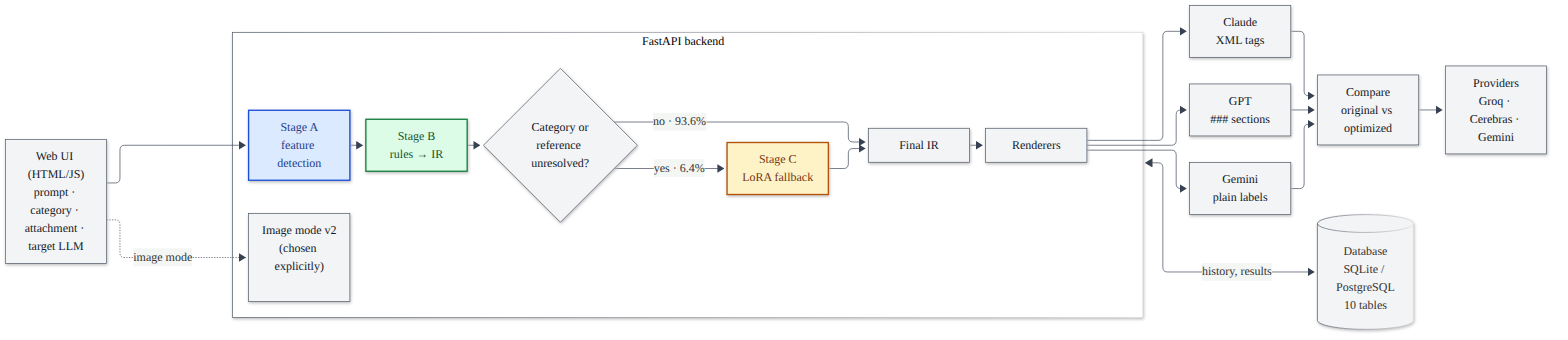
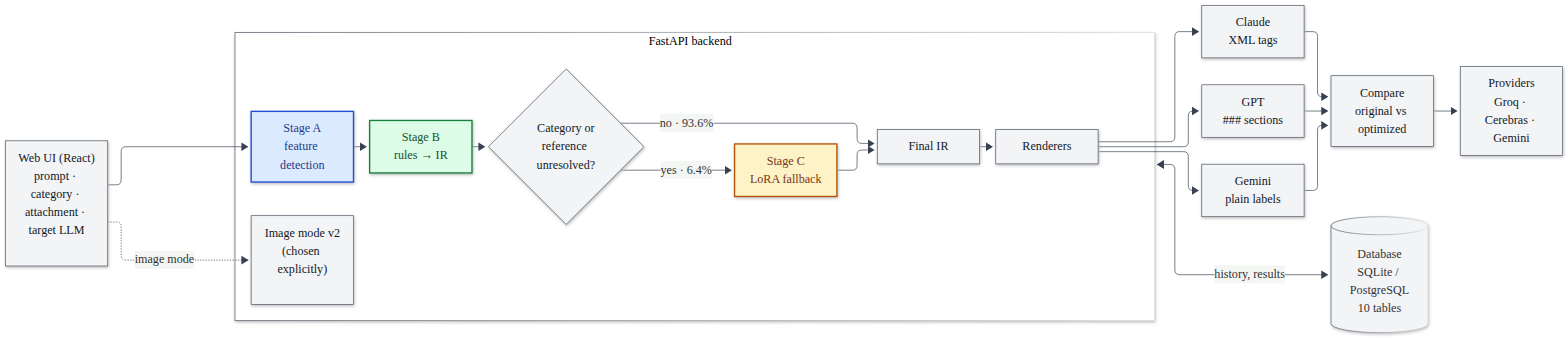
Review fixes: retention enforced, 422 for blank prompts, PII-scrubbed Compare, test isolation
- Retention: the app never purged expired prompts (only `init_db --purge`), so prompts past their 30 days
  stayed listed and viewable. app/retention.py deletes them before every endpoint that stores, reads or lists
  prompts (/api/optimize, /api/compare, /api/history[/{id}], /api/ui/history, /api/ui/compare-history).
- A whitespace-only prompt raised DataValidationError -> HTTP 500; now answered with 422.
- Compare sent the raw original prompt and pasted text (emails/phone numbers) to the provider while the
  optimized prompt was built from the scrubbed text: both variants now get the scrubbed text (fair, private).
- Gemini: a per-minute 429 ("Quota exceeded ... PerMinute") was treated as the daily quota; it is now retried,
  only a per-day (or unidentified) quota stops.
- Compare's cache path default was bound at import time, so tests wrote fixture answers into the real
  data/compare/cache.jsonl; it is now read at call time (the suite writes nothing under data/ any more).
- SQLite default is backend/promptopt.db as an absolute path (no stray database when run from elsewhere).
- Judge budget uses DAILY_LIMITS instead of a literal; unvalidated-test note no longer promises Compare runs them.
- Docs: UI is React (diagram 01 regenerated from its SVG), stale HTML/JS and test-count mentions fixed.

Freeze check: byte-identical to frozen-for-test (35f7d4dc..., 482 test prompts). Tests: 777 passed.

diff --git a/backend/app/api.py b/backend/app/api.py
@@ -24,15 +24,18 @@ Endpoints
 
 Everything runs offline. Stage C is used when its adapter is installed (config.STAGE_C_ADAPTER) and
 STAGE_C_ENABLED is not "0"; otherwise the UI says Stage C is unavailable and Stage B's result is shown.
+
+Retention: endpoints that store or read prompts first delete the expired ones (app.retention). Input the database
+layer refuses (e.g. a prompt that is only whitespace) is answered with 422, not a server error.
 """
 import os
 from functools import lru_cache
 from pathlib import Path
 from typing import Literal
 
-from fastapi import Depends, FastAPI, HTTPException
+from fastapi import Depends, FastAPI, HTTPException, Request
 from fastapi.middleware.gzip import GZipMiddleware
-from fastapi.responses import FileResponse
+from fastapi.responses import FileResponse, JSONResponse
 from fastapi.staticfiles import StaticFiles
 from pydantic import BaseModel, Field
 from sqlalchemy import select
@@ -41,6 +44,7 @@ from sqlalchemy.orm import Session
 from app.config import RETENTION_DAYS
 from app.db import repository as repo
 from app.db.base import get_db
+from app.db.pii import scrub_pii
 from app.coding import app_tests
 from app.compare import providers
 from app.compare import service as compare_service
@@ -51,6 +55,7 @@ from app.image.v2 import RULE_DOCS_V2, optimize_image_v2, parse_accepted, render
 from app.db.models import Prompt
 from app.pipeline import process_prompt
 from app.rendering import TARGETS
+from app.retention import enforce_retention
 from app.stage_b.ir import Attachment
 from app.stage_b.rules import RULES
 from app.ui_api import router as ui_router
@@ -69,6 +74,11 @@ app = FastAPI(title="PromptOpt", version="0.2.0")
 app.add_middleware(GZipMiddleware, minimum_size=1000)
 app.mount("/static", StaticFiles(directory=STATIC), name="static")
 app.include_router(ui_router)
+
+
+@app.exception_handler(repo.DataValidationError)
+def data_validation_error(request: Request, exc: repo.DataValidationError):
+    return JSONResponse(status_code=422, content={"detail": str(exc)})
 
 
 @lru_cache(maxsize=1)
@@ -190,7 +200,7 @@ def optimize_image_prompt(req: OptimizeRequest, db: Session) -> dict:
             "ir": ir.model_dump(mode="json"), "renderings": rendered}
 
 
-@app.post("/api/optimize")
+@app.post("/api/optimize", dependencies=[Depends(enforce_retention)])
 def optimize_prompt(req: OptimizeRequest, db: Session = Depends(get_db)):
     if req.category == "image_generation":
         return optimize_image_prompt(req, db)
@@ -244,14 +254,14 @@ def coding_tests(req: CodingTestsRequest):
     return app_tests.generate(req.optimized_prompt)
 
 
-@app.get("/api/history")
+@app.get("/api/history", dependencies=[Depends(enforce_retention)])
 def history(limit: int = 20, db: Session = Depends(get_db)):
     rows = db.scalars(select(Prompt).order_by(Prompt.id.desc()).limit(min(max(limit, 1), 100))).all()
     return [{"prompt_id": p.id, "text": p.original_text[:200], "created_at": p.created_at,
              "expires_at": p.expires_at} for p in rows]
 
 
-@app.get("/api/history/{prompt_id}")
+@app.get("/api/history/{prompt_id}", dependencies=[Depends(enforce_retention)])
 def history_item(prompt_id: int, db: Session = Depends(get_db)):
     item = repo.get_prompt_history(db, prompt_id)
     if item is None:
@@ -272,7 +282,7 @@ def compare_models():
                         "available": m.available, "reason": m.reason} for m in providers.MODELS]}
 
 
-@app.post("/api/compare")
+@app.post("/api/compare", dependencies=[Depends(enforce_retention)])
 def compare(req: CompareRequest, db: Session = Depends(get_db)):
     if req.category == "image_generation":
         raise HTTPException(422, "Compare runs text prompts; image models are not wired up for Compare.")
@@ -282,15 +292,18 @@ def compare(req: CompareRequest, db: Session = Depends(get_db)):
     if not info.available:
         raise HTTPException(503, info.reason)
     optimized = optimize_prompt(OptimizeRequest(**req.model_dump(exclude={"model", "judge"})), db)
+    history = repo.get_prompt_history(db, optimized["prompt_id"])
+    # Both variants go to the provider with PII scrubbed, as stored: the optimized prompt is built from the scrubbed
+    # text, so sending the raw original would compare different inputs and send emails/phone numbers outside.
+    context = scrub_pii(req.context)[0].strip() if req.context and req.context.strip() else None
     try:
-        result = compare_service.compare(req.prompt, optimized["renderings"][req.target], req.model, req.target,
-                                         context=req.context, category=optimized["category"]["used"],
+        result = compare_service.compare(history["original_text"], optimized["renderings"][req.target], req.model,
+                                         req.target, context=context, category=optimized["category"]["used"],
                                          judge_answers=req.judge)
     except DailyLimitReached as e:
         raise HTTPException(429, str(e))
     except ModelUnavailable as e:
         raise HTTPException(503, str(e))
-    history = repo.get_prompt_history(db, optimized["prompt_id"])
     result_id = history["results"][-1]["result_id"]
     repo.save_token_usage(db, result_id, req.target, f"compare:{req.model}", result["original"]["input_tokens"],
                           result["optimized"]["input_tokens"], result["original"]["output_tokens"],

diff --git a/backend/tests/test_compare.py b/backend/tests/test_compare.py
@@ -186,3 +186,44 @@ def test_api_compare_end_to_end(client, monkeypatch):
     assert r["tests"]["optimized"]["outcome"] == "pass"
     usage = client.get(f"/api/history/{r['prompt_id']}").json()["results"][0]["token_usage"]
     assert any(u["target_llm"] == "gemini" and u["optimized_input"] == 104 for u in usage)
+
+
+def test_gemini_per_minute_limit_is_retried_per_day_limit_stops():
+    minute = {"error": {"message": "You exceeded your current quota. Quota exceeded for metric: generate_content_free_"
+                                   "tier_requests", "details": [{"quotaId": "GenerateRequestsPerMinutePerProjectPerModel"
+                                                                            "-FreeTier"}]}}
+    calls = []
+
+    def first_minute_then_ok(request):
+        calls.append(1)
+        if len(calls) == 1:
+            return httpx.Response(429, json=minute)
+        return httpx.Response(200, json={"candidates": [{"content": {"parts": [{"text": "ok"}]}}],
+                                         "usageMetadata": {"promptTokenCount": 3, "candidatesTokenCount": 1}})
+    http = httpx.Client(base_url=providers.GEMINI_URL, transport=httpx.MockTransport(first_minute_then_ok))
+    c = providers.GeminiChat(http=http, sleep=lambda s: None).complete("m", [{"role": "user", "content": "x"}], 10)
+    assert c.content == "ok" and len(calls) == 2                                      # waited out, not "daily"
+    day = {"error": {"message": "Quota exceeded", "details": [{"quotaId": "GenerateRequestsPerDayPerProjectPerModel"
+                                                                          "-FreeTier"}]}}
+    http = httpx.Client(base_url=providers.GEMINI_URL,
+                        transport=httpx.MockTransport(lambda request: httpx.Response(429, json=day)))
+    with pytest.raises(DailyLimitReached):
+        providers.GeminiChat(http=http, sleep=lambda s: None).complete("m", [{"role": "user", "content": "x"}], 10)
+
+
+def test_api_compare_sends_both_prompts_pii_scrubbed(client, monkeypatch):
+    seen = []
+
+    def fake(info, messages, **kw):
+        seen.append(messages[-1]["content"])
+        return completion({"content": "Sure."}, info.id)
+    monkeypatch.setattr(providers, "complete", fake)
+    r = client.post("/api/compare", json={"prompt": "email ravi@example.com the summary of this", "target": "gpt",
+                                          "context": "Call 555-123-4567 about the launch on Friday.",
+                                          "model": "groq/openai/gpt-oss-120b"})
+    assert r.status_code == 200
+    assert len(seen) == 2
+    for sent in seen:                                    # original and optimized: same scrubbed input
+        assert "ravi@example.com" not in sent and "555-123-4567" not in sent
+        assert "[PHONE]" in sent
+    assert "[EMAIL]" in r.json()["original"]["prompt"]

diff --git a/backend/app/compare/service.py b/backend/app/compare/service.py
@@ -75,8 +75,8 @@ def judge(original_request: str, answer: str, cache: Cache) -> dict | None:
         info = providers.BY_ID["groq/openai/gpt-oss-120b"]
         if not info.available:
             return None
-        from app.groq_budget import UsageLedger
-        if UsageLedger().used(JUDGE_MODEL)["tokens"] > providers.BUDGET_FRACTION * 200_000:
+        from app.groq_budget import DAILY_LIMITS, UsageLedger
+        if UsageLedger().used(JUDGE_MODEL)["tokens"] > providers.BUDGET_FRACTION * DAILY_LIMITS[JUDGE_MODEL]["tokens"]:
             return {"score": None, "reason": "judge skipped: Groq daily budget for the judge model reached"}
         msgs = [{"role": "system", "content": JUDGE_SYSTEM},
                 {"role": "user", "content": f"USER'S REQUEST:\n{original_request.strip()}\n\nRESPONSE:\n"
@@ -93,13 +93,13 @@ def judge(original_request: str, answer: str, cache: Cache) -> dict | None:
 
 
 def compare(original_prompt: str, optimized_prompt: str, model_id: str, target: str, context: str | None = None,
-            category: str | None = None, judge_answers: bool = False, cache_path: Path = CACHE) -> dict:
+            category: str | None = None, judge_answers: bool = False, cache_path: Path | None = None) -> dict:
     info = providers.BY_ID.get(model_id)
     if info is None:
         raise ValueError(f"unknown model {model_id!r}; choose one of {list(providers.BY_ID)}")
     if not info.available:
         raise providers.ModelUnavailable(info.reason)
-    cache = Cache(cache_path)
+    cache = Cache(cache_path or CACHE)                  # CACHE read at call time, so tests can point it elsewhere
     original_text = with_context(original_prompt, context)
     out = {v: run_variant(info, text, cache) for v, text in (("original", original_text),
                                                              ("optimized", optimized_prompt))}

diff --git a/backend/app/ui_api.py b/backend/app/ui_api.py
@@ -6,6 +6,7 @@
     GET    /api/ui/results           evaluation/FINAL_RESULTS.md parsed into sections and tables, plus the token headline
     GET    /api/ui/suite-grid        correctness suite: every case's verdicts and tokens per model (results.json)
     GET    /api/ui/history           past prompts with search and paging, with category/target/compare runs
+                                     (expired prompts are deleted first: app.retention)
     DELETE /api/ui/history/{id}      delete one prompt (cascade, like the retention purge)
     GET    /api/ui/compare-history   past Compare runs (token usage rows written by POST /api/compare)
 
@@ -24,6 +25,7 @@ from app.config import BACKEND_DIR, RETENTION_DAYS
 from app.db.base import get_db
 from app.db.models import OptimizationResult, Prompt, TokenUsage
 from app.rendering import TARGETS, count_tokens
+from app.retention import enforce_retention
 
 ROOT = BACKEND_DIR.parent
 EVAL = ROOT / "evaluation"
@@ -248,7 +250,7 @@ def _summary(p: Prompt) -> dict:
             "optimized": r.optimized_text if r else None, "compares": compares}
 
 
-@router.get("/history")
+@router.get("/history", dependencies=[Depends(enforce_retention)])
 def history(q: str = "", limit: int = 50, offset: int = 0, db: Session = Depends(get_db)):
     stmt = select(Prompt)
     if q.strip():
@@ -271,7 +273,7 @@ def delete_history(prompt_id: int, db: Session = Depends(get_db)):
     return {"deleted": prompt_id}
 
 
-@router.get("/compare-history")
+@router.get("/compare-history", dependencies=[Depends(enforce_retention)])
 def compare_history(limit: int = 30, db: Session = Depends(get_db)):
     rows = db.execute(select(TokenUsage, OptimizationResult.prompt_id, Prompt.original_text)
                       .join(OptimizationResult, TokenUsage.result_id == OptimizationResult.id)

diff --git a/backend/app/config.py b/backend/app/config.py
@@ -1,7 +1,7 @@
 """Settings, read from environment variables so nothing is hard-coded.
 
 DATABASE_URL examples
-    SQLite (default, development):  sqlite:///./promptopt.db
+    SQLite (default, development):  backend/promptopt.db, wherever the command is started from
     PostgreSQL (deployment):        postgresql+psycopg://promptopt:password@localhost:5432/promptopt
 
 Values are read from backend/.env if it exists (see .env.example). Variables already set in the
@@ -12,10 +12,14 @@ from pathlib import Path
 
 from dotenv import load_dotenv
 
-# backend/.env, located relative to this file so it works from any working directory.
-load_dotenv(Path(__file__).resolve().parent.parent / ".env", override=False)
+BACKEND_DIR = Path(__file__).resolve().parent.parent
 
-DATABASE_URL = os.getenv("DATABASE_URL", "sqlite:///./promptopt.db")
+# backend/.env, located relative to this file so it works from any working directory.
+load_dotenv(BACKEND_DIR / ".env", override=False)
+
+# Default: SQLite at backend/promptopt.db (an absolute path, so a command run from another directory does not create a
+# second, empty database next to it).
+DATABASE_URL = os.getenv("DATABASE_URL", f"sqlite:///{BACKEND_DIR / 'promptopt.db'}")
 
 # Retention policy: stored prompts (and everything derived from them) are deleted after this many days.
 RETENTION_DAYS = int(os.getenv("RETENTION_DAYS", "30"))
@@ -34,7 +38,6 @@ TASK_CATEGORIES = (
 )
 
 # ---- Stage A
-BACKEND_DIR = Path(__file__).resolve().parent.parent
 # Sentence-Transformers model for task-category detection (same model the dataset quality checks used)
 SENTENCE_MODEL = os.getenv("SENTENCE_MODEL", "sentence-transformers/all-MiniLM-L6-v2")
 # k-NN index built from the dataset's train split by `python -m app.stage_a.build_index` (git-ignored)

diff --git a/backend/tests/test_api.py b/backend/tests/test_api.py
@@ -199,3 +199,29 @@ def test_image_suggestions_are_added_only_when_accepted(client):
     assert "lighting" not in {s["attribute"] for s in r["suggestions"]}
     assert client.post("/api/optimize", json={**body, "accepted_suggestions": ["lighting:laser show"]}
                        ).status_code == 422
+
+
+def test_blank_prompt_is_rejected_with_422_not_500(client):
+    for body in ({"prompt": "   \n ", "target": "gpt"},
+                 {"prompt": "  ", "target": "dalle", "category": "image_generation"}):
+        r = client.post("/api/optimize", json=body)
+        assert r.status_code == 422 and "empty" in r.json()["detail"]
+
+
+def test_expired_prompts_are_deleted_before_history_is_shown(client):
+    from datetime import timedelta
+
+    from sqlalchemy import func, select
+
+    from app.db import repository as repo
+    from app.db.models import Prompt, utcnow
+    fresh = client.post("/api/optimize", json={"prompt": "summarize this", "target": "gpt"}).json()["prompt_id"]
+    session = next(api.app.dependency_overrides[get_db]())
+    old = repo.create_prompt(session, "an old prompt", now=utcnow() - timedelta(days=31))
+    session.commit()
+    assert old.id != fresh
+    assert client.get(f"/api/history/{old.id}").status_code == 404
+    assert [h["prompt_id"] for h in client.get("/api/history").json()] == [fresh]
+    assert [h["prompt_id"] for h in client.get("/api/ui/history").json()["items"]] == [fresh]
+    session.rollback()
+    assert session.scalar(select(func.count()).where(Prompt.id == old.id)) == 0      # deleted, not just hidden

diff --git a/backend/app/compare/providers.py b/backend/app/compare/providers.py
@@ -57,6 +57,16 @@ BY_ID = {m.id: m for m in MODELS}
 CLIENTS = {"groq", "cerebras", "gemini"}          # providers with a client; openai/anthropic come with API keys
 
 
+def _daily_quota(body: str) -> bool:
+    """A Gemini 429 for the daily quota. Every quota 429 says "Quota exceeded"; the quota id tells the window
+    ("...PerDayPerProjectPerModel-FreeTier" vs "...PerMinute..."). A per-minute limit is waited out and retried;
+    a 429 that names neither window counts as daily, so the caller stops instead of retrying in vain."""
+    text = body.lower().replace(" ", "")
+    if "perday" in text:
+        return True
+    return "perminute" not in text and "quota" in text
+
+
 class GeminiChat:
     """Gemini generateContent with the same `complete` interface as GroqChat / CerebrasChat."""
 
@@ -93,7 +103,7 @@ class GeminiChat:
                 return self._completion(r.json(), model, ms)
             text = r.text[:300]
             if r.status_code == 429:
-                if "day" in text.lower() or "quota" in text.lower():
+                if _daily_quota(r.text):
                     raise DailyLimitReached(f"gemini {model}: free-tier quota reached")
                 self.sleep(min(60, 10 * 2 ** attempt))
                 last = "429"

diff --git a/backend/app/coding/app_tests.py b/backend/app/coding/app_tests.py
@@ -1,4 +1,4 @@
-"""Tests shown in the app for coding prompts. Running them on a real LLM's answer waits for Compare (API keys).
+"""Tests shown in the app for coding prompts. Compare runs the validated ones on both answers in the sandbox.
 
 * The prompt is a dataset coding item (same degraded prompt as a test/benchmark item): its tests, validated on the
   CodeAlpaca reference (data/coding/items.json, from `python -m app.coding.testgen`). Works offline.
@@ -74,4 +74,5 @@ def generate(optimized_prompt: str, llm=None) -> dict:
     return {"source": "generated", "validated": False, "mode": "function", "function": obj.get("function"),
             "signature": obj.get("signature"), "tests": tests,
             "note": "UNVALIDATED: generated from the optimized prompt; there is no reference solution to check them "
-                    "against. Running them on the LLM's answer needs the Compare feature (API keys)."}
+                    "against, so they are shown for reading only. Compare runs only the validated tests of dataset "
+                    "coding items."}

diff --git a/backend/app/retention.py b/backend/app/retention.py
@@ -1,0 +1,18 @@
+"""Retention policy in the web app: prompts past their `expires_at` (RETENTION_DAYS after they were stored) are
+deleted, with everything derived from them (ON DELETE CASCADE), before an endpoint stores, reads or lists prompts.
+So the UI never shows a prompt past its expiry date, and expired data does not wait for a manual purge.
+
+    @app.get("/api/history", dependencies=[Depends(enforce_retention)])
+
+FastAPI caches dependencies per request, so this runs on the same session as the endpoint's own `Depends(get_db)`.
+`python -m app.init_db --purge` does the same from the command line (e.g. a daily cron job).
+"""
+from fastapi import Depends
+from sqlalchemy.orm import Session
+
+from app.db.base import get_db
+from app.db.repository import purge_expired
+
+
+def enforce_retention(db: Session = Depends(get_db)) -> None:
+    purge_expired(db)

diff --git a/backend/README.md b/backend/README.md
@@ -13,7 +13,7 @@ The same code runs on both; only `DATABASE_URL` changes.
 pip install -r requirements-lock.txt   # exact versions (CPU torch, en_core_web_sm); full guide: ../README.md "How to run"
 cp .env.example .env        # optional: DATABASE_URL, API keys; .env is git-ignored
 
-python -m app.init_db       # uses DATABASE_URL from .env, or SQLite ./promptopt.db if it is not set
+python -m app.init_db       # uses DATABASE_URL from .env, or SQLite backend/promptopt.db if it is not set
 ```
 
 Settings come from `.env` (loaded by `app/config.py`); variables already set in the shell win.
@@ -74,7 +74,7 @@ In FastAPI use the `get_db` dependency from `app/db/base.py`.
 
 * `create_prompt` strips emails and phone numbers **before** the prompt is stored, so raw PII never reaches the database.
 * Every prompt gets `expires_at = created_at + RETENTION_DAYS` (default 30, set with the `RETENTION_DAYS` env variable).
-* `python -m app.init_db --purge` deletes expired prompts; features, results, transformations, renderings and token usage are removed with them by `ON DELETE CASCADE`. Run it daily (cron job, or a FastAPI startup/background task).
+* Expired prompts are deleted with everything derived from them (features, results, transformations, renderings, token usage: `ON DELETE CASCADE`). The web app does this itself before every request that stores, reads or lists prompts (`app/retention.py`), so the UI never shows a prompt past its expiry date; `python -m app.init_db --purge` does the same from the command line (e.g. a daily cron job when the app is not running).
 
 ## Integrity rules enforced by the database itself
 

diff --git a/evaluation/FINAL_RESULTS.md b/evaluation/FINAL_RESULTS.md
@@ -215,8 +215,9 @@ Requirement under 3 s per prompt on the laptop GPU: **met**.
 * **Renderers**: the same content for all three targets (Claude XML tags, GPT `###` sections, Gemini plain labels
   with the instruction first); every rendering is parsed back in the tests to check no field is lost. Input tokens per
   target: GPT exact (tiktoken o200k_base), Claude/Gemini approximate (characters / 4, labelled).
-* **App**: FastAPI + plain HTML/JS, fully offline (`uvicorn app.api:app` in `backend/`); Compare is disabled until API
-  keys for the real target LLMs exist.
+* **App** (as of `final-for-test`): FastAPI + plain HTML/JS, fully offline (`uvicorn app.api:app` in `backend/`); Compare
+  is disabled until API keys for the real target LLMs exist. Later: Compare (section 9) and the React UI v2 (the first UI
+  stays at `/classic`).
 
 ## 7. Coding: tests in a sandbox (finish phase 4, after `final-for-test`)
 

diff --git a/docs/CODING_TESTS.md b/docs/CODING_TESTS.md
@@ -65,7 +65,8 @@ For a coding prompt the UI shows a "Tests for this coding prompt" panel:
 * the prompt is a dataset item: its validated tests (offline);
 * otherwise: "Generate tests (Cerebras)" writes 3-6 tests for the optimized prompt, marked **UNVALIDATED** (no
   reference to check them against); needs `CEREBRAS_API_KEY`, cached per prompt.
-"Run tests on the LLM's answer" is disabled until the Compare feature has API keys for the target LLMs.
+Compare (finish phase 6) runs a dataset item's validated tests on both answers in the sandbox; generated
+(unvalidated) tests are shown for reading only.
 
 ## Commands (inside `backend/`)
 
